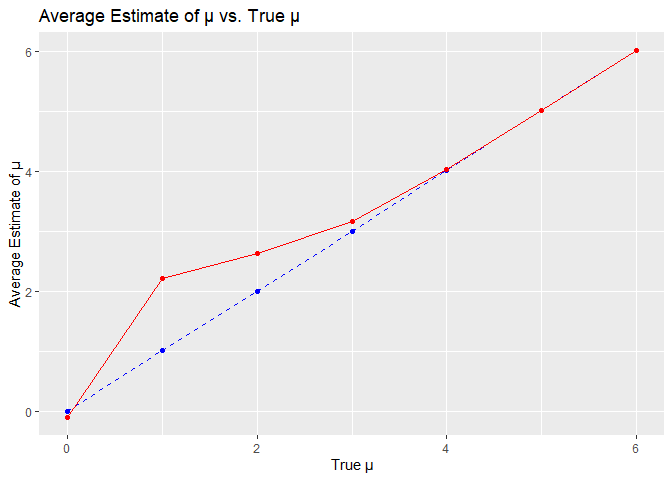
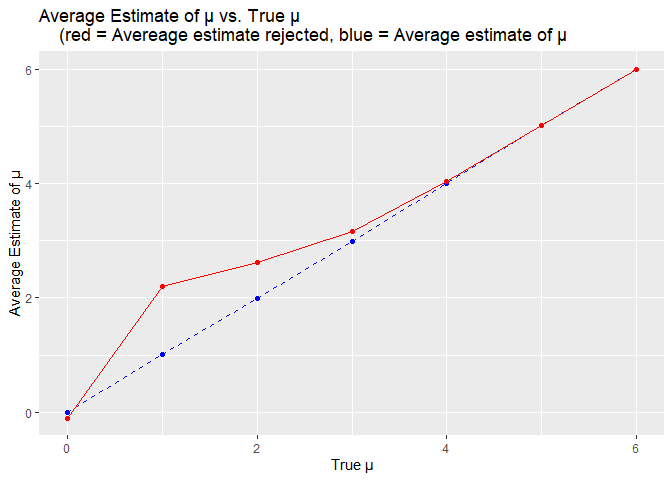
added descritions to problem 2 and modified plot 2

diff --git a/p8105_hw5_zw2975.md b/p8105_hw5_zw2975.md
@@ -112,14 +112,10 @@ ggplot(power_results, aes(x = true_mu)) +
   geom_point(aes(y = avg_estimate), color = "blue") +
   geom_point(aes(y = avg_estimate_rejected), color = "red") +
   labs(
-    title = "Average Estimate of μ vs. True μ",
+    title = "Average Estimate of μ vs. True μ
+    (red = Avereage estimate rejected, blue = Average estimate of μ",
     x = "True μ",
-    y = "Average Estimate of μ"
-  ) +
-  scale_color_manual(
-    values = c("Average Estimate" = "blue", "Rejected Null Avg Estimate" = "red"),
-    name = "Estimate Type"
-  )
+    y = "Average Estimate of μ") 
 ```
 
 ![](p8105_hw5_zw2975_files/figure-gfm/plot%202-1.png)<!-- -->
@@ -127,15 +123,16 @@ ggplot(power_results, aes(x = true_mu)) +
 ##### Comment
 
 The average estimate of μ across all samples (blue dashed line) closely
-follows the true value of μ, indicating unbiased estimation. However,
-the red solid line (representing estimates from samples where the null
-was rejected) shows a consistent upward bias, especially at lower μ
-values.
+follows the true value of μ, indicating unbiased estimation.
+
+The red solid line (representing estimates from samples where the null
+was rejected) shows a slight upward increase between 0 to 3 for the True
+μ.
 
 This bias arises because samples with larger effect sizes are more
-likely to reject the null, leading to a selection effect where only
-extreme estimates are considered. Hence, the sample average of μ in
-cases where the null is rejected overestimates the true μ.
+likely to reject the null hypothesis, where only extreme estimates are
+considered. That is the reason why the sample average of μ in cases
+where the null hypotheses are rejected slightly exceeds the true μ.
 
 ## Problem 3
 
@@ -203,7 +200,6 @@ city_results = summary |>
 #sort out proportions of unsolved homicides
 city_results = city_results |>
   arrange(desc(estimate))
-
 # Plot
 ggplot(city_results, aes(x = reorder(city_state, estimate), y = estimate)) +
   geom_point(size = 3, color = "red") +  
